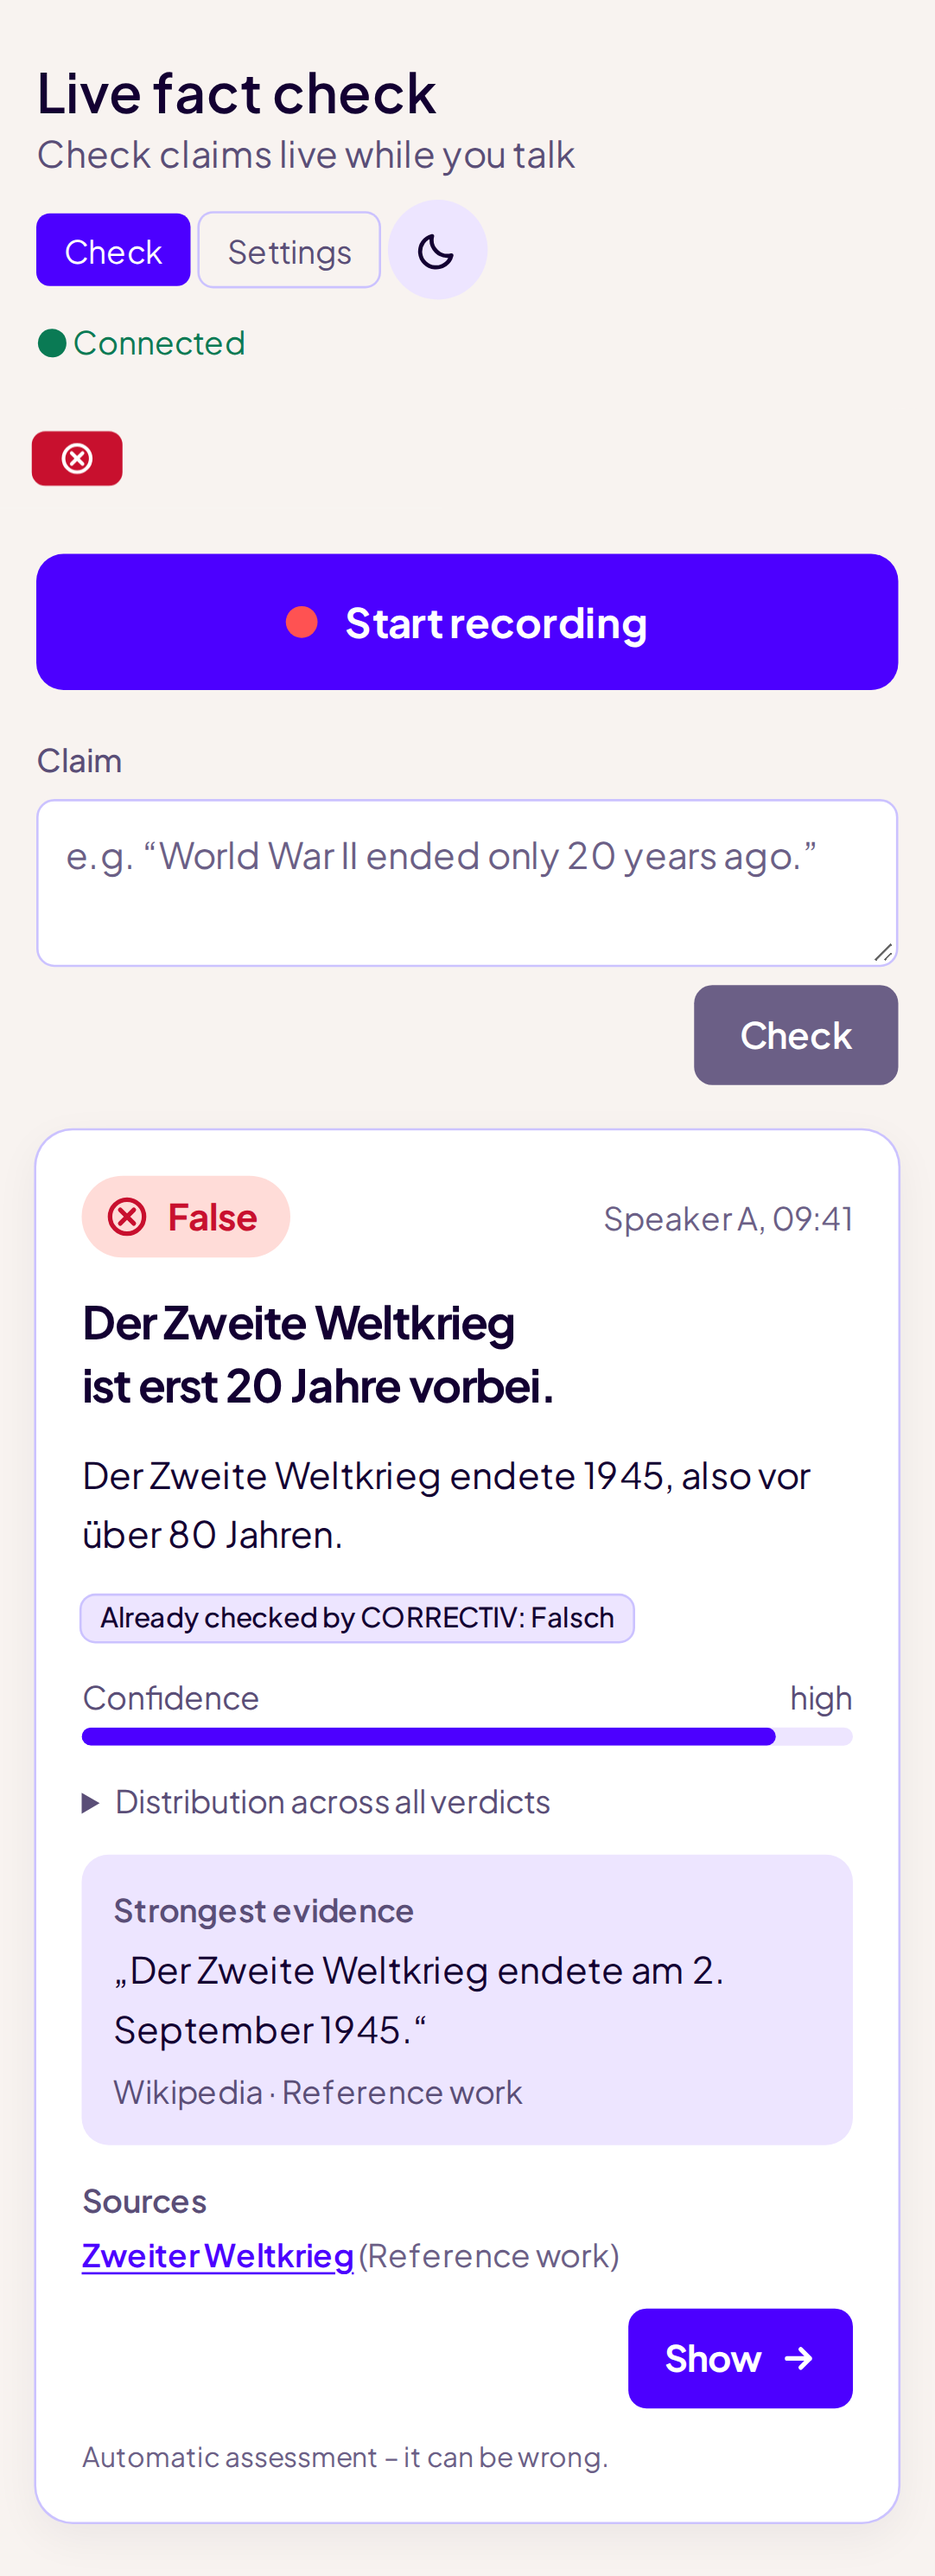
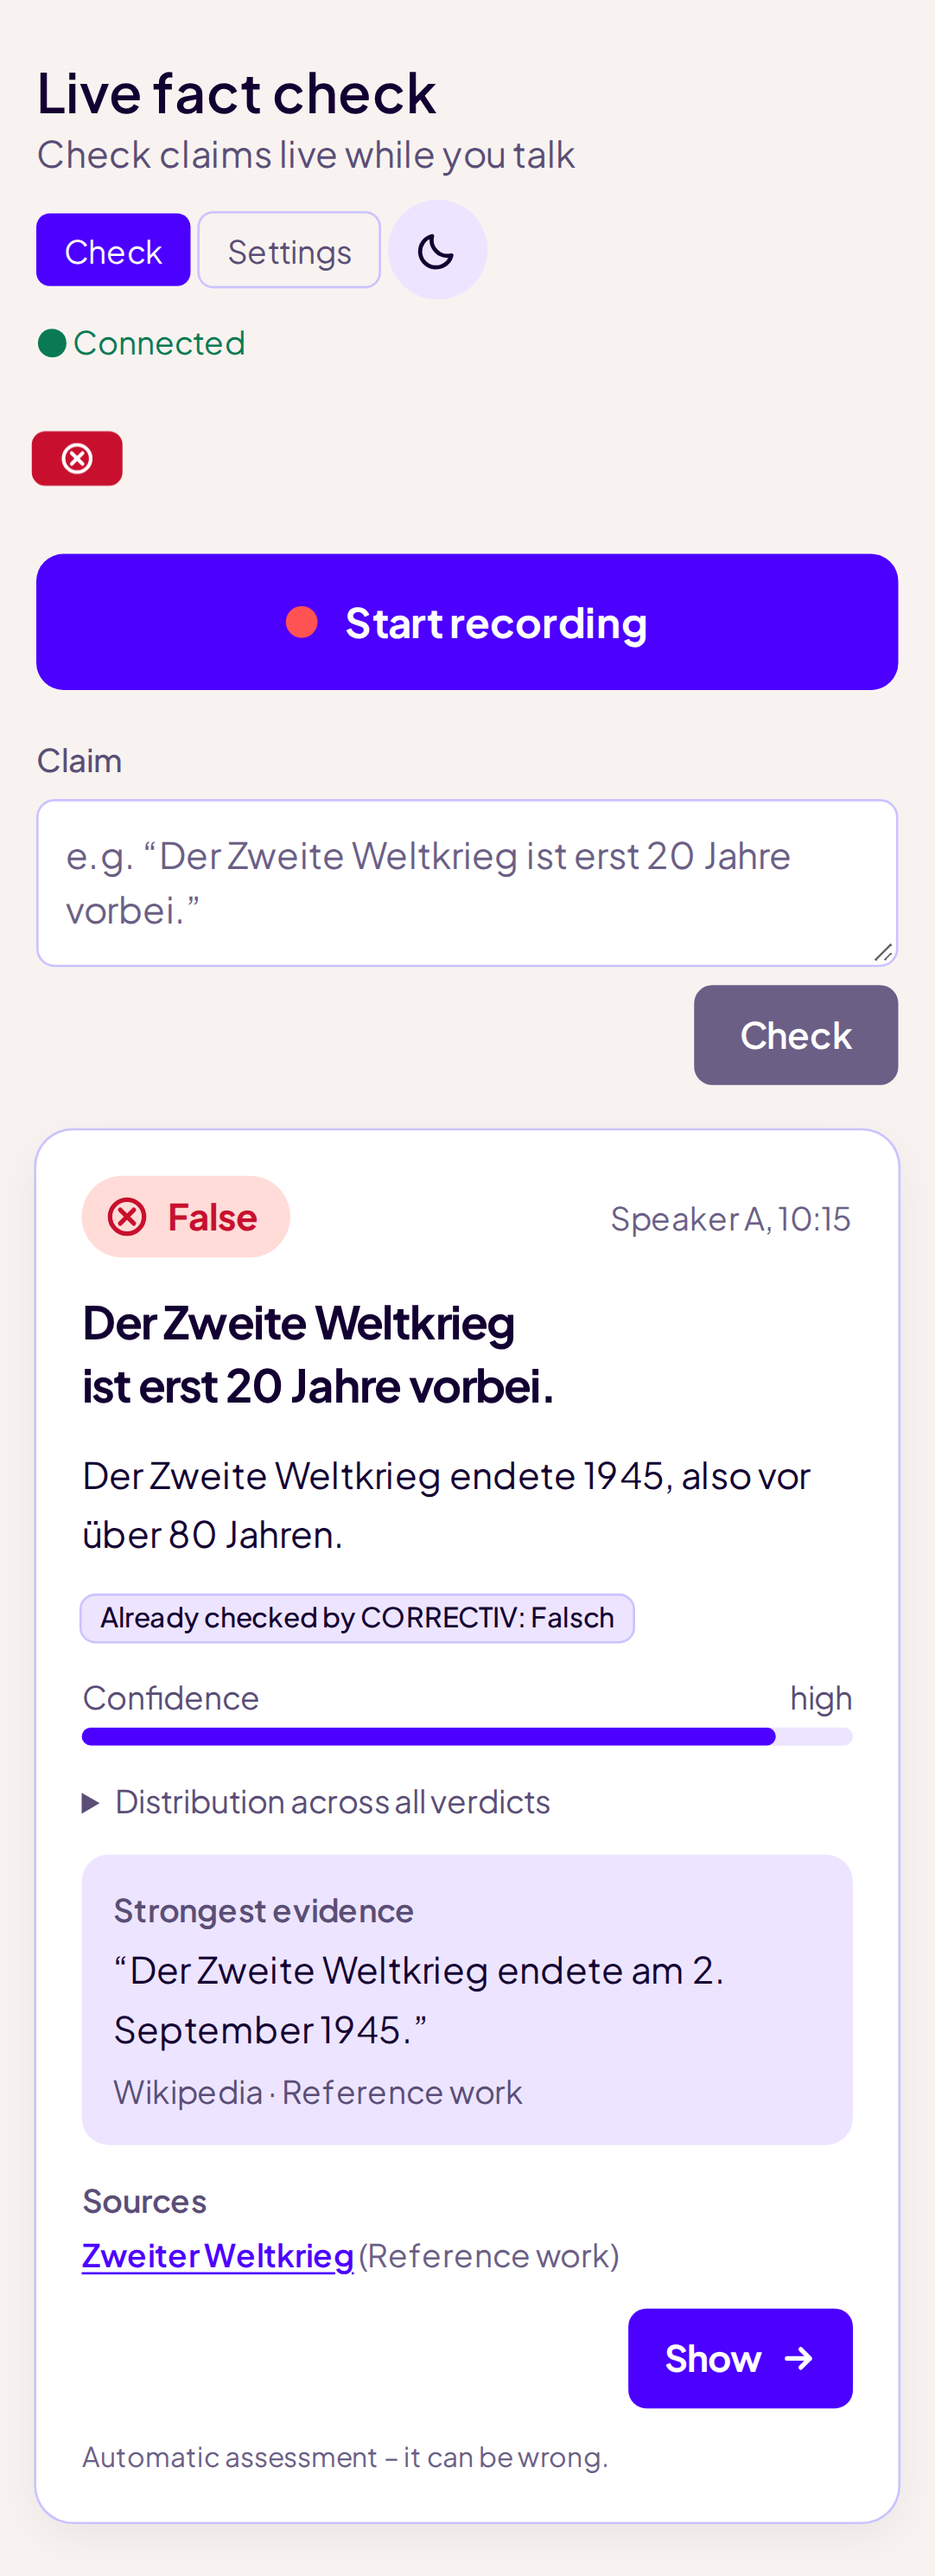
docs: fresh T6.6 card evidence, plan status for the review round
The English card screenshot now shows the shipped state (German example
sentence in the placeholder, English quotation marks in the evidence).

Changed region(s): [[0.183, 0.3122, 0.8235, 0.3434], [0.6405, 0.4683, 0.915, 0.4995], [0.0915, 0.3434, 0.183, 0.3746]]

diff --git a/.ai/plans/phase-2-live-transkription.md b/.ai/plans/phase-2-live-transkription.md
@@ -167,7 +167,9 @@ Jede Anforderung hat genau einen belegenden Test auf der niedrigsten passenden S
 - **Prozess-Update (Owner, 2026-09-30, nach dem Pocock-Vortrag „Fixing the PR Bottleneck“):** PR-Beschreibungen beginnen mit dem Merge-Gefahr-Block (Risiko aus Tür + Wirkradius, Nutzen, Review-Tiefe); „Was und warum“ mit Struktur-Skizze; Urteils-Standards in `docs/CODING_STANDARDS.md` (liest das Review, nicht die Implementierung); Skill `retro` an jedem Gate; Plan-Tasks bekommen Risikostufen, hohes Risiko → stärkstes Modell. Umsetzung in #50/#62. Stryker-Ausweitung: PR #66 (gemessene Schwellen); `stt-local`-Mutationstests → Issue #60
 - Risikostufen der offenen Tasks: T6.5 PR 3 **niedrig** (revertibel, nur `apps/web`) · T6.6 englische Oberfläche **niedrig** · T7.5 Red-Team **mittel** (echte Schlüssel, Kosten) · Gate-4-Abnahme **hoch** (nicht revertibel: Phasenabschluss)
 - [x] T6.5 PR 1–3 gemergt (2026-10-01): PR 1 #47, PR 2 #48/#64, PR 3 #68/#71 (Einwilligung, Zustände, Zeigen) · dazu #65 (Starttest-Puffer), #66 (Mutationstests überall, gemessene Schwellen), #69 (Stream-TTL + Gruppen-Selbstheilung – macht die Viertelstunden-Zusage wahr)
-- Nächster Task: **T6.6 englische Oberfläche** – T6.5 ist mit PR 4 (#72, dieser Zweig) komplett; danach Gate 4 mit Retro
+- [x] T6.6 umgesetzt (PR #73, Zweig `phase-2/t66-english`, gestapelt auf #72): `en.json` typisiert gegen das deutsche Schlüsselset, language-Store (Gerätesprache als Default, Wahl in den Einstellungen), Datumsformate de-DE/en-GB, Stufe-2b-Durchlauf auf Englisch in drei Browsern; Testumgebungen pinnen Deutsch (jsdom/Playwright melden sonst en)
+- Drittes Review zu #72 eingearbeitet (2026-10-01): W2 behoben (die Danach-Ansicht wartet jetzt auf Urteile, die nach dem Stop eintreffen; `lastEndSummaryShown` hält Geschlossenes geschlossen), W1 als Owner-Checkbox in #72 („Zurück“ = Fortsetzung desselben Gesprächs, nur „Neues Gespräch“ rotiert die Session), W3 mit Beleg zurückgewiesen (Review verglich `main...HEAD` auf veralteter Basis; der echte PR-Diff ist `apps/web` + Doku)
+- Nächster Task: **Gate 4 mit Retro**, sobald Marco #72 und dann #73 gemergt hat (Reihenfolge; #73 ziele ich nach dem #72-Merge sofort auf `main` um). Offen in den PRs: Owner-Checkboxen (#72 „Zurück“-Semantik und „Ein Gespräch“; #73 en-GB-Datum, Urteils-Wortwahl, consent.local-Wortlaut)
 - Review Gate 1 eingearbeitet: exakter Cache-Treffer-Test für `totalMs` (fact-checker); Audio-Fehlercodes → eigene Integrationstests in TP4 (Erinnerung in T4)
 - Backlog und offene Owner-Punkte leben jetzt als GitHub-Issues #51–#60 (Labels `backlog`/`erinnerung`, Owner 2026-09-30); der Status hier bleibt schlank
 - Erinnerungen: iPhone-Test → Issue #51 (fällig 01.10.); Opus-5-Red-Team-Lauf in T7.5 → Issue #55
